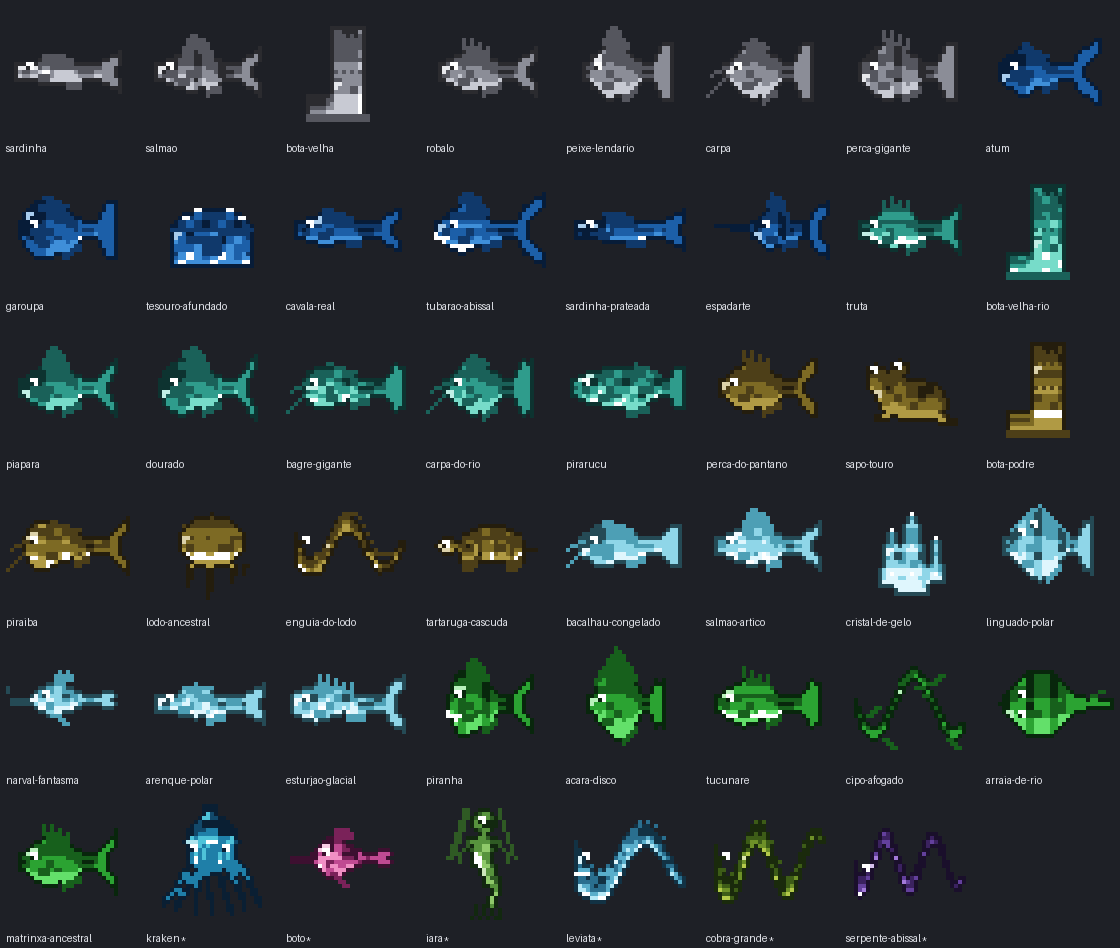
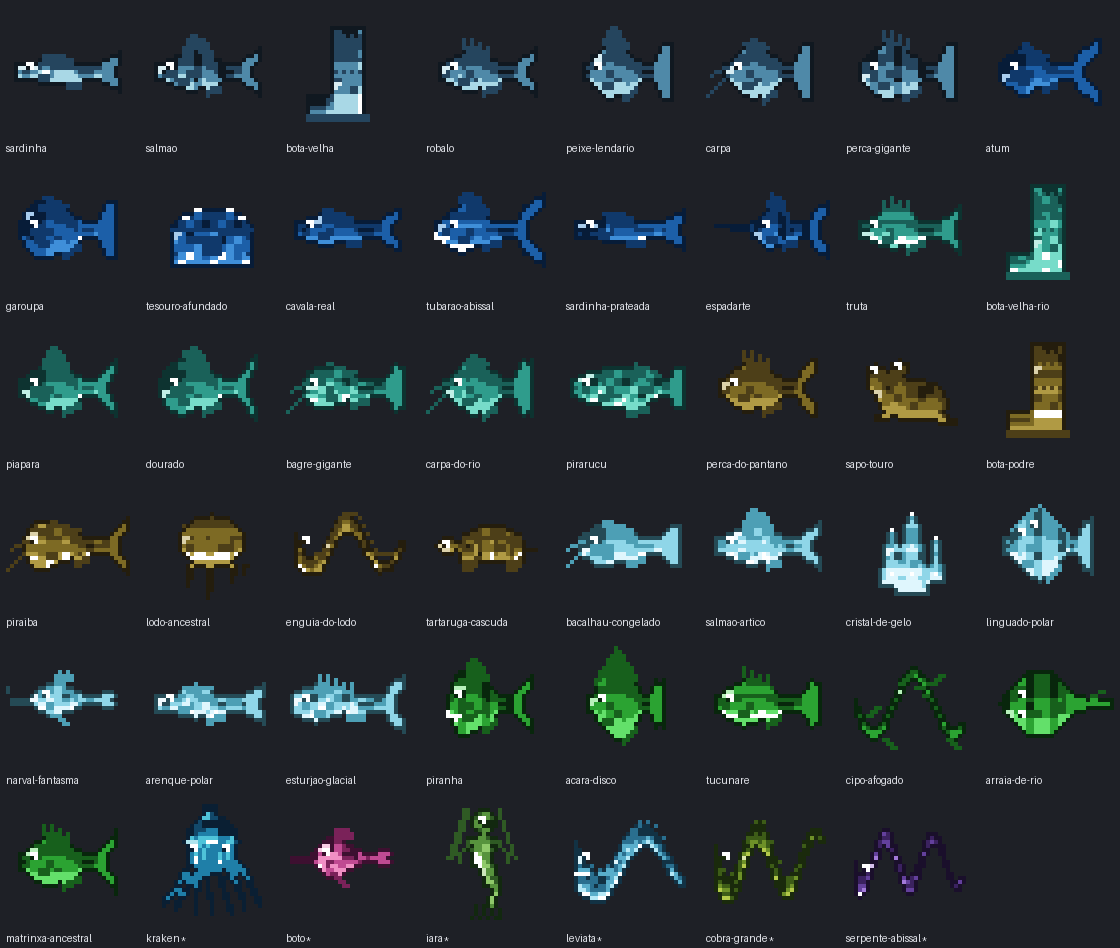
Adiciona textura do ticket de recompensa e ajusta paleta dos peixes default
Ticket de recompensa (NAME_TAG "vale +N niveis") ganha item_model proprio
via tools/gerar_ticket.py, chave ticket_recompensa, paleta OURO. Peixes
do cardume "default" passam a usar paleta prata-azulada (escama de peixe
de verdade) em vez do cinza chapado herdado do trofeu de Peixedex.

Changed region(s): [[0.375, 0.0306, 0.875, 0.1224], [0.0, 0.0306, 0.25, 0.1224], [0.25, 0.0306, 0.3438, 0.153]]

diff --git a/tools/gerar_ticket.py b/tools/gerar_ticket.py
@@ -1,0 +1,131 @@
+# -*- coding: utf-8 -*-
+"""
+Gerador da textura do Reward Ticket (vale de nivel de XP do Minecraft).
+
+E' um item generico: nao varia por boss nem por nivel, so' um "vale +N
+niveis" (ver RewardTicket.java). Entregue em duas situacoes - captura de
+peixe-boss e level-up do jogador - por isso o desenho e' neutro (nenhum
+peixe especifico estampado), so' um selo de autenticidade.
+
+Item PLANO (minecraft:item/generated), igual aos peixes: e' segurado e visto
+no inventario, nunca cai no chao com volume proprio.
+
+Paleta: OURO (a mesma dos trofeus "Primeiro Domador", ja definida em
+gerar_trofeus.py) - o ticket e' recompensa de prestigio, entao usa a cor que
+o jogador ja associa a conquista rara no pack.
+
+Rode indiretamente:
+
+    python tools/gerar_trofeus.py    # gera trofeus + peixes + ticket + zip
+"""
+from __future__ import annotations
+
+import os
+
+from PIL import Image
+
+import gerar_trofeus as T
+
+SIZE = 32
+NOME = "ticket_recompensa"
+
+TRANSPARENTE = (0, 0, 0, 0)
+
+
+def desenha(pal):
+    """Vale dourado com bordas denteadas (selo/cupom), canhoto destacado por
+    uma linha de perfuracao e um selo circular com marca de "aprovado" - a
+    leitura que separa este item de um pedaco de papel qualquer."""
+    o = T.rgb(pal["o"])
+    D = T.rgb(pal["D"])
+    M = T.rgb(pal["M"])
+    L = T.rgb(pal["L"])
+    s = T.rgb(pal["s"])
+
+    img = Image.new("RGBA", (SIZE, SIZE), TRANSPARENTE)
+    px = img.load()
+
+    x0, x1 = 2, 29
+    y0, y1 = 9, 22
+    ymid = (y0 + y1) // 2
+
+    # corpo solido do vale
+    for y in range(y0, y1 + 1):
+        for x in range(x0, x1 + 1):
+            px[x, y] = M
+
+    # borda
+    for x in range(x0, x1 + 1):
+        px[x, y0] = D
+        px[x, y1] = D
+    for y in range(y0, y1 + 1):
+        px[x0, y] = D
+        px[x1, y] = D
+
+    # denteado tipo selo postal: perfura a borda de cima/baixo a cada 3px
+    for x in range(x0 + 1, x1, 3):
+        px[x, y0] = o
+        px[x, y1] = o
+
+    # entalhe semicircular nas pontas (ticket "arrancado" do talao)
+    for dx, dy in ((0, 0), (1, 0), (0, 1), (0, -1)):
+        px[x0 + dx, ymid + dy] = TRANSPARENTE
+        px[x1 - dx, ymid + dy] = TRANSPARENTE
+
+    # linha de perfuracao vertical: separa um canhoto estreito a esquerda
+    xp = x0 + 8
+    for y in range(y0, y1 + 1):
+        if y % 2 == 0:
+            px[xp, y] = o
+    px[xp, y0] = TRANSPARENTE
+    px[xp, y1] = TRANSPARENTE
+
+    # estrela no canhoto
+    cx, cy = x0 + 4, ymid
+    for dx, dy in ((0, -2), (0, 2), (-2, 0), (2, 0), (0, 0),
+                   (-1, -1), (1, -1), (-1, 1), (1, 1)):
+        px[cx + dx, cy + dy] = s
+
+    # selo circular ("aprovado") no corpo principal, a direita do canhoto
+    sx, sy, r = 20, ymid, 5
+    for y in range(sy - r, sy + r + 1):
+        for x in range(sx - r, sx + r + 1):
+            d2 = (x - sx) ** 2 + (y - sy) ** 2
+            if d2 <= r * r:
+                px[x, y] = L if d2 <= (r - 1) ** 2 else D
+
+    # marca de verificacao ("check") dentro do selo
+    check = ((-2, 0), (-1, 1), (0, 2), (1, 1), (2, -1), (3, -2))
+    for dx, dy in check:
+        px[sx + dx, sy + dy] = o
+
+    # brilho especular no selo
+    px[sx - 2, sy - 3] = s
+    px[sx - 1, sy - 3] = s
+
+    return img
+
+
+def catalogo_ticket():
+    """Um unico item: (nome, imagem, rotulo)."""
+    return [(NOME, desenha(T.OURO), "Ticket")]
+
+
+def gera(itens):
+    for nome, img, _ in itens:
+        img.save(os.path.join(T.TEX_DIR, nome + ".png"))
+        T.escreve_json(os.path.join(T.MODEL_DIR, nome + ".json"), {
+            "parent": "minecraft:item/generated",
+            "textures": {"layer0": f"{T.NS}:item/{nome}"},
+        })
+        T.escreve_json(os.path.join(T.ITEM_DIR, nome + ".json"), {
+            "model": {"type": "minecraft:model", "model": f"{T.NS}:item/{nome}"}
+        })
+
+
+if __name__ == "__main__":
+    for d in (T.TEX_DIR, T.MODEL_DIR, T.ITEM_DIR):
+        os.makedirs(d, exist_ok=True)
+    itens = catalogo_ticket()
+    gera(itens)
+    print(f"{len(itens)} ticket(s) gerado(s) em", T.TEX_DIR)

diff --git a/tools/gerar_trofeus.py b/tools/gerar_trofeus.py
@@ -61,6 +61,13 @@ PALETAS = {
     "peixedex-jungle": paleta("#08260c", "#17601c", "#2ba332", "#63e06a"),
 }
 
+# Paleta so' dos PEIXES (nao do trofeu) do cardume "default": o cinza chapado
+# de peixedex-default lia bem como livro de Peixedex, mas ficava sem graca
+# como escama de peixe de verdade. Prata-azulado e' cor real de escama
+# (sardinha/salmao/robalo), mais vivo que cinza sem perder o ar "neutro" do
+# grupo que nao caiu em nenhum bioma especifico.
+PALETA_PEIXE_DEFAULT = paleta("#101820", "#25455e", "#4f89a8", "#a9d8e6")
+
 OURO = paleta("#3d2a06", "#8a6413", "#d8a52a", "#ffe07a")
 PAPEL = "#efe6cf"  # corte das paginas do tomo
 
@@ -414,7 +421,7 @@ def folha_texturas(itens):
     sheet.save(os.path.join(PREVIEW_DIR, "texturas.png"))
 
 
-def comandos_give(itens, peixes=()):
+def comandos_give(itens, peixes=(), tickets=()):
     linhas = ["# Cole no chat pra ver cada peca. Nao precisa do plugin nem da flag.",
               "", "# --- trofeus ---"]
     for nome, _, _, _ in itens:
@@ -422,6 +429,10 @@ def comandos_give(itens, peixes=()):
     if peixes:
         linhas += ["", "# --- peixes (1 por especie + 1 por boss) ---"]
         for nome, _, _ in peixes:
+            linhas.append(f'/give @s minecraft:paper[minecraft:item_model="{NS}:{nome}"]')
+    if tickets:
+        linhas += ["", "# --- ticket de recompensa (NAME_TAG no jogo, aqui via paper) ---"]
+        for nome, _, _ in tickets:
             linhas.append(f'/give @s minecraft:paper[minecraft:item_model="{NS}:{nome}"]')
     with open(os.path.join(PREVIEW_DIR, "comandos_give.txt"), "w", encoding="utf-8") as f:
         f.write("\n".join(linhas) + "\n")
@@ -437,9 +448,10 @@ def empacota():
 
 
 def main():
-    # Import tardio de proposito: gerar_peixes importa ESTE modulo (pelas
-    # PALETAS), entao importar la' em cima fecharia um ciclo.
+    # Import tardio de proposito: gerar_peixes e gerar_ticket importam ESTE
+    # modulo (pelas PALETAS/OURO), entao importar la' em cima fecharia um ciclo.
     import gerar_peixes
+    import gerar_ticket
 
     for d in (TEX_DIR, MODEL_DIR, ITEM_DIR, PREVIEW_DIR):
         os.makedirs(d, exist_ok=True)
@@ -467,12 +479,16 @@ def main():
     peixes = gerar_peixes.catalogo_peixes()
     gerar_peixes.gera(peixes)
 
+    tickets = gerar_ticket.catalogo_ticket()
+    gerar_ticket.gera(tickets)
+
     folha_iso(itens)
     folha_texturas(itens)
-    comandos_give(itens, peixes)
+    comandos_give(itens, peixes, tickets)
     zipe = empacota()
     print(f"{len(itens)} trofeus 3D gerados em {MODEL_DIR}")
     print(f"{len(peixes)} peixes 2D gerados em {MODEL_DIR}")
+    print(f"{len(tickets)} ticket(s) gerado(s) em {MODEL_DIR}")
     print(f"zip: {zipe}")
 
 

diff --git a/tools/gerar_peixes.py b/tools/gerar_peixes.py
@@ -954,7 +954,9 @@ def catalogo_peixes():
     """(nome, imagem, rotulo) de cada especie + cada boss."""
     itens = []
     for cardume in T.CARDUMES:
-        pal = T.PALETAS[f"peixedex-{cardume}"]
+        # "default" usa uma paleta so' dos peixes (prata-azulado), separada da
+        # do trofeu de Peixedex (que continua cinza) - ver T.PALETA_PEIXE_DEFAULT.
+        pal = T.PALETA_PEIXE_DEFAULT if cardume == "default" else T.PALETAS[f"peixedex-{cardume}"]
         for especie in ESPECIES[cardume]:
             itens.append((f"peixe_{especie}",
                           pinta_peixe(pal, variacao(especie), especie),

diff --git a/README.md b/README.md
@@ -83,7 +83,7 @@ tingido pela paleta de cada peça. O gerador **não** depende de
 Chaves: `peixe_<id-da-especie>` (ex.: `peixe_sardinha`, `peixe_kraken`) — a
 lista completa está em `preview/comandos_give.txt`.
 
-## O que tem no pack (65 peças)
+## O que tem no pack (66 peças)
 
 - **6 troféus de boss** — taça na cor do boss, com emblema próprio.
 - **6 troféus "Primeiro Domador"** — mesma taça em ouro, com coroa; o emblema
@@ -91,6 +91,11 @@ lista completa está em `preview/comandos_give.txt`.
 - **6 troféus de Peixedex completo** — silhueta de livro, uma cor por cardume.
 - **47 peixes** — 41 espécies + 6 bosses, cada um com forma e padrão próprios
   (ver seção acima).
+- **1 ticket de recompensa** — item plano gerado por `tools/gerar_ticket.py`,
+  chave `ticket_recompensa`, paleta `OURO` (mesma dos troféus "Primeiro
+  Domador"). É genérico: representa o "vale +N níveis de XP" entregue tanto em
+  captura de peixe-boss quanto em level-up (`RewardTicket.java`), não varia por
+  boss nem por nível.
 
 Tamanho total do zip varia a cada geração (~70-90 KB) — isso é o download
 inteiro do jogador.
@@ -167,7 +172,9 @@ meta.setItemModel(new NamespacedKey("catchcraft", "trofeu_" + boss.id()));
 ```
 
 Chaves disponíveis: `trofeu_<boss>`, `trofeu_ouro_<boss>`,
-`trofeu_peixedex_<cardume>`, `peixe_<id-da-especie>`.
+`trofeu_peixedex_<cardume>`, `peixe_<id-da-especie>`, `ticket_recompensa`
+(única, sem variação — aplicada em `RewardTicket.java` via `TicketModels`,
+flag própria `resource-pack.ticket-model`).
 
-Pra conferir a arte sem o plugin, use `preview/comandos_give.txt` (65
+Pra conferir a arte sem o plugin, use `preview/comandos_give.txt` (66
 comandos, um por peça) ou olhe `preview/peixes.png` / `preview/iso.png`.
